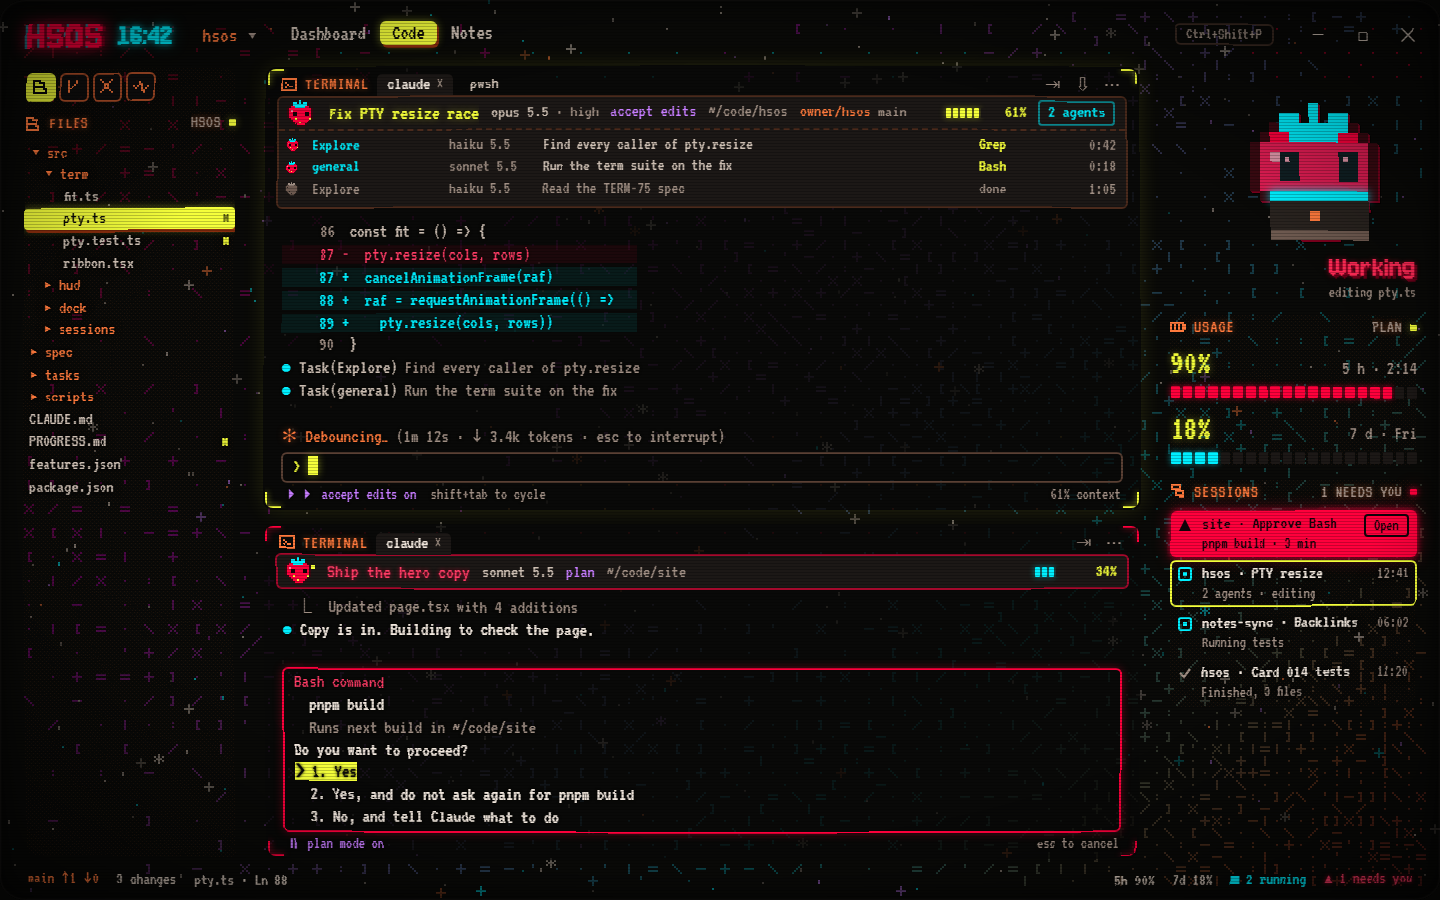
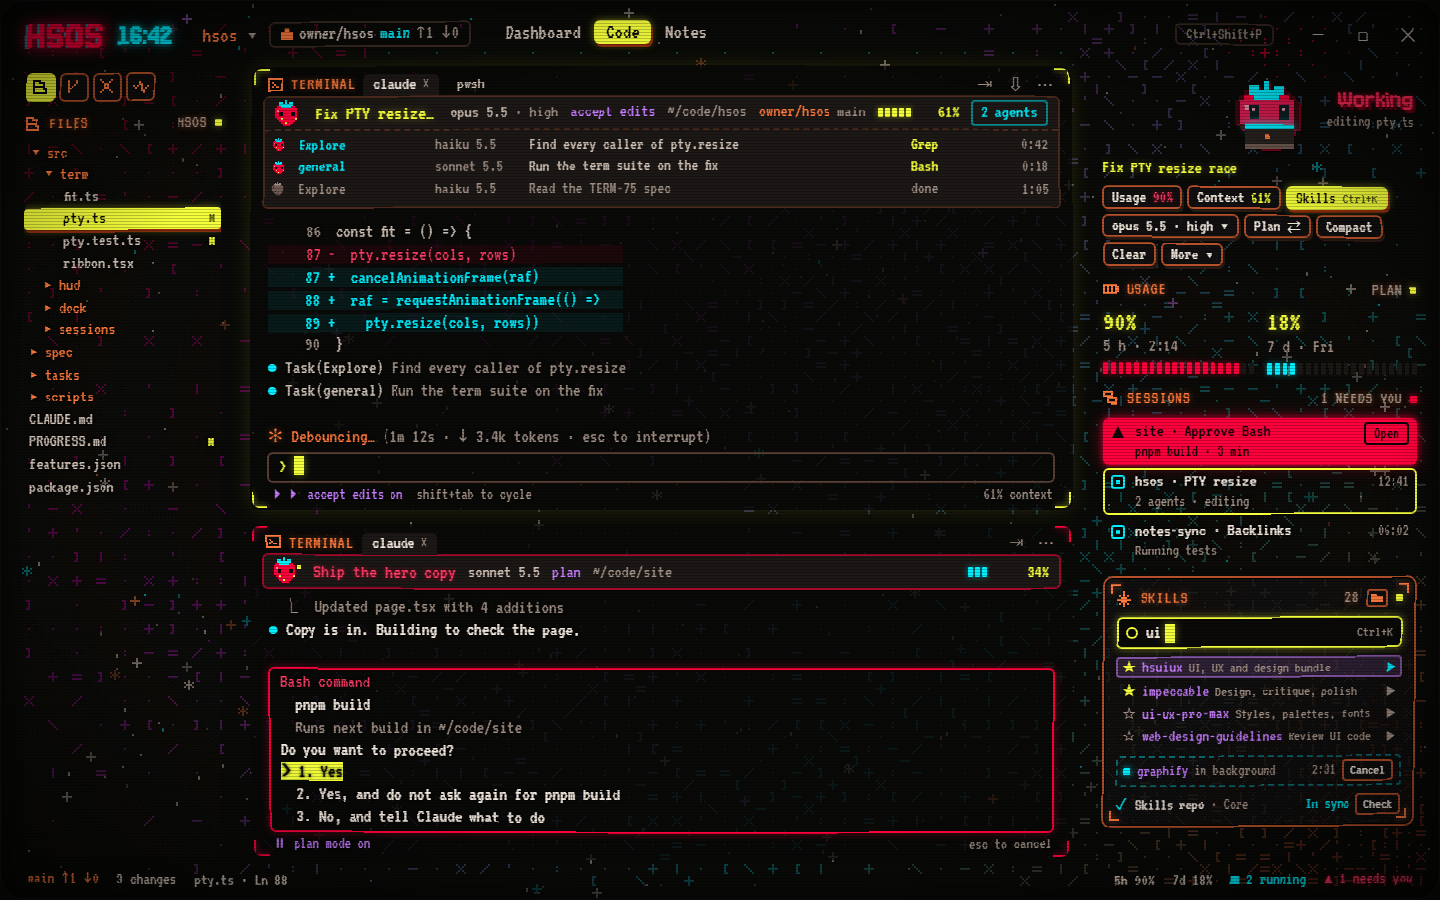
design(code): shrink mascot, add skills deck and repo to layout C
Owner chose layout C. The HUD column gains the quick bar, the skills
search deck with a background run, and the skills repo row; the title
bar shows the project's repo, branch and ahead/behind.

diff --git a/design-round/code/phosphor-code.html b/design-round/code/phosphor-code.html
@@ -51,6 +51,9 @@ button { font: inherit; color: inherit; background: none; border: 0; cursor: poi
 .clock { font-family: var(--font-display); font-size: 34px; line-height: 1; color: var(--cyan); text-shadow: var(--g-cyan); font-variant-numeric: tabular-nums; margin-left: -8px; }
 .clock .colon { animation: colon 1s steps(1) infinite; } @keyframes colon { 50% { opacity: .25; } }
 .proj { font-size: 22px; color: var(--terra); margin-left: 8px; } .proj span { color: var(--muted); }
+.repo-btn { display: flex; align-items: center; gap: 6px; font-size: 19px; color: var(--text-2); padding: 0 10px; border: 2px solid var(--line); border-radius: var(--radius-c); margin-left: -10px; }
+.repo-btn .br { color: var(--cyan); } .repo-btn .ab { color: var(--muted); }
+.repo-btn .gh { width: 12px; height: 12px; background: var(--terra); clip-path: polygon(0 30%, 30% 30%, 30% 0, 70% 0, 70% 30%, 100% 30%, 100% 100%, 0 100%); }
 .pages { display: flex; gap: 2px; }
 .pages button { padding: 0 12px; font-size: 21px; color: var(--text-2); border-radius: var(--radius-c); }
 .pages button[aria-current] { background: var(--accent); color: var(--accent-text); box-shadow: 2px 3px 0 var(--terra-deep), var(--g-yel); }
@@ -211,6 +214,45 @@ button { font: inherit; color: inherit; background: none; border: 0; cursor: poi
 [data-layout="c"] .hud .w .cn, [data-layout="c"] .hud .w .strip { display: none; }
 [data-layout="c"] .hud .row:not(.need) { text-shadow: 0 0 4px #000, 0 0 8px #000; }
 [data-layout="c"] .hud .ctxw { display: none; }
+.cx { display: none; }
+[data-layout="c"] .cx { display: flex; }
+[data-layout="c"] .work { grid-template-columns: 200px 1fr 318px; }
+[data-layout="c"] .hud { gap: 10px; }
+[data-layout="c"] .hud .mascot { flex-direction: row; align-items: center; justify-content: flex-end; gap: 8px; margin: -8px 0 -6px; }
+[data-layout="c"] .hud .mascot .word { font-size: 28px; }
+[data-layout="c"] .hud .ses .row:nth-child(n+4) { display: none; }
+[data-layout="c"] .hud .usew .usage { grid-template-columns: 1fr 1fr; gap: 14px; }
+[data-layout="c"] .hud .usew .lab { flex-direction: column; align-items: flex-start; gap: 0; margin-bottom: 4px; }
+[data-layout="c"] .hud .usew .num { font-size: 28px; }
+.quick { flex-direction: column; gap: 6px; }
+.quick .qt { color: var(--yellow); text-shadow: var(--g-yel); font-size: 18px; white-space: nowrap; overflow: hidden; text-overflow: ellipsis; }
+.quick .qb { display: flex; flex-wrap: wrap; gap: 5px; }
+.quick button { padding: 0 8px; font-size: 17px; border: 2px solid var(--frame); border-radius: var(--radius-c); background: rgba(18,16,16,.88); box-shadow: 2px 3px 0 #2A1A14; white-space: nowrap; }
+.quick .chip b { font-weight: 400; color: var(--yellow); } .quick .chip.danger b { color: #FF3D66; text-shadow: 0 0 4px rgba(255,0,60,.6); }
+.quick .chip kbd, .search kbd { font-family: inherit; color: var(--muted); font-size: 15px; }
+.quick .chip.skills { background: var(--accent); color: var(--accent-text); border-color: var(--accent); box-shadow: 2px 3px 0 var(--terra-deep), var(--g-yel); }
+.quick .chip.skills kbd { color: #4E5212; }
+.skills { flex-direction: column; }
+[data-layout="c"] .hud .skills.w { background: rgba(18,16,16,.72); border: 2px solid var(--frame); padding: 10px 12px; box-shadow: inset 0 0 0 1px #000; }
+[data-layout="c"] .hud .skills.w .cn { display: block; }
+.skills .fold { width: 22px; height: 18px; align-self: center; border: 2px solid var(--frame); border-radius: 3px; position: relative; }
+.skills .fold::before { content: ""; position: absolute; left: 3px; right: 3px; top: 3px; bottom: 3px; background: var(--terra); clip-path: polygon(0 0, 45% 0, 55% 25%, 100% 25%, 100% 100%, 0 100%); }
+.search { display: flex; align-items: center; gap: 4px; height: 32px; padding: 0 8px; border: 2px solid var(--yellow); border-radius: var(--radius-c); background: #0B0A09; box-shadow: var(--g-yel); }
+.search .mag { width: 12px; height: 12px; border: 2px solid var(--yellow); border-radius: 50%; margin-right: 4px; position: relative; }
+.search .typed { color: var(--text); }
+.search kbd { margin-left: auto; }
+.sk { list-style: none; display: grid; gap: 1px; }
+.sk li { display: grid; grid-template-columns: 14px auto 1fr 14px; gap: 6px; align-items: baseline; padding: 1px 6px; border-radius: 4px; font-size: 17px; white-space: nowrap; }
+.sk li > * { overflow: hidden; text-overflow: ellipsis; }
+.sk .nm { color: var(--lav); } .sk .ds { color: var(--muted); font-size: 15px; } .sk .star { color: var(--muted); } .sk .star.on { color: var(--yellow); }
+.sk .run { color: var(--muted); font-size: 12px; text-align: right; }
+.sk li.hit { background: rgba(199,125,255,.16); outline: 2px solid rgba(199,125,255,.55); outline-offset: -2px; }
+.sk li.hit .run { color: var(--cyan); }
+.runs { display: grid; grid-template-columns: 8px auto 1fr auto auto; gap: 6px; align-items: center; font-size: 16px; padding: 3px 6px; border: 2px dashed rgba(0,240,255,.4); border-radius: 4px; white-space: nowrap; }
+.runs .nm { color: var(--lav); } .runs .t { color: var(--muted); }
+.runs button, .repo-row button { padding: 0 6px; font-size: 15px; border: 2px solid var(--frame); border-radius: 4px; }
+.repo-row { display: grid; grid-template-columns: 14px 1fr auto auto; gap: 6px; align-items: center; font-size: 16px; }
+.repo-row .ok { color: var(--cyan); }
 
 /* buttons: lift and tilt toward the pointer */
 .btn3d { --rx: 0deg; --ry: 0deg; transform: perspective(320px) rotateX(var(--rx)) rotateY(var(--ry)); transition: transform 140ms cubic-bezier(.2,0,0,1), filter 140ms ease-out; }
@@ -253,6 +295,7 @@ button { font: inherit; color: inherit; background: none; border: 0; cursor: poi
       <div class="brand" data-text="HSOS">HSOS</div>
       <div class="clock"><span class="hh">16</span><span class="colon">:</span><span class="mm">42</span></div>
       <div class="proj">hsos <span>▾</span></div>
+      <button class="repo-btn" title="Open owner/hsos on GitHub"><span class="gh"></span>owner/hsos <span class="br">main</span> <span class="ab">↑1 ↓0</span></button>
       <nav class="pages" aria-label="Pages"><button>Dashboard</button><button aria-current="page">Code</button><button>Notes</button></nav>
       <div class="grow"></div>
       <div class="hint">Ctrl+Shift+P</div>
@@ -340,10 +383,17 @@ button { font: inherit; color: inherit; background: none; border: 0; cursor: poi
       <aside class="hud" aria-label="HUD">
         <section class="mascot">
           <canvas id="berry" aria-label="Strawberry mascot"></canvas>
-          <div class="word">Working</div>
-          <div class="doing">editing pty.ts</div>
+          <div class="say"><div class="word">Working</div>
+          <div class="doing">editing pty.ts</div></div>
         </section>
-        <section class="w" data-icon="battery" data-led="yel">
+        <section class="quick cx" aria-label="Quick bar">
+          <div class="qt">Fix PTY resize race</div>
+          <div class="qb">
+            <button class="chip danger">Usage <b>90%</b></button><button class="chip warn">Context <b>61%</b></button><button class="chip skills">Skills <kbd>Ctrl+K</kbd></button>
+            <button>opus 5.5 · high ▾</button><button>Plan ⇄</button><button>Compact</button><button>Clear</button><button>More ▾</button>
+          </div>
+        </section>
+        <section class="w usew" data-icon="battery" data-led="yel">
           <h2>Usage <span class="aside">plan</span></h2>
           <div class="usage">
             <div><div class="lab"><span class="num">90%</span><span class="muted">5 h · 2:14</span></div><div class="cells" data-v="90"></div></div>
@@ -358,6 +408,18 @@ button { font: inherit; color: inherit; background: none; border: 0; cursor: poi
             <div class="row"><span class="state" data-s="run"></span><div><div class="title">notes-sync · Backlinks</div><div class="sub">Running tests</div></div><span class="when">06:02</span></div>
             <div class="row"><span class="state" data-s="done"></span><div><div class="title">hsos · Card 014 tests</div><div class="sub">Finished, 3 files</div></div><span class="when">11:20</span></div>
           </div>
+        </section>
+        <section class="w skills cx" data-icon="spark" data-led="yel">
+          <h2>Skills <span class="aside">28</span><button class="fold" title="Open skills folder" aria-label="Open skills folder"></button></h2>
+          <div class="search"><span class="mag"></span><span class="typed">ui</span><span class="caret"></span><kbd>Ctrl+K</kbd></div>
+          <ul class="sk">
+            <li class="hit"><span class="star on">★</span><span class="nm">hsuiux</span><span class="ds">UI, UX and design bundle</span><span class="run" title="Run in background">▶</span></li>
+            <li><span class="star on">★</span><span class="nm">impeccable</span><span class="ds">Design, critique, polish</span><span class="run">▶</span></li>
+            <li><span class="star">☆</span><span class="nm">ui-ux-pro-max</span><span class="ds">Styles, palettes, fonts</span><span class="run">▶</span></li>
+            <li><span class="star">☆</span><span class="nm">web-design-guidelines</span><span class="ds">Review UI code</span><span class="run">▶</span></li>
+          </ul>
+          <div class="runs"><span class="led cyan"></span><span class="nm">graphify</span><span class="muted">in background</span><span class="t">2:31</span><button>Cancel</button></div>
+          <div class="repo-row"><span class="ok">✓</span><span>Skills repo <span class="muted">· Core</span></span><span class="cyan">In sync</span><button>Check</button></div>
         </section>
       </aside>
     </main>
@@ -461,6 +523,7 @@ const ICONS = {
   graph:  ["#.....#.", ".#...#..", "..###...", "..#.#...", "..###...", ".#...#..", "#.....#.", "........"],
   pulse:  ["........", "...#....", "...##...", "#.#.#..#", ".#..#.#.", "....##..", ".....#..", "........"],
   box:    ["..####..", ".#....#.", "########", "#..##..#", "#......#", "#......#", "########", "........"],
+  spark:  ["...#....", "...#....", ".#.#.#..", "..###...", "#######.", "..###...", ".#.#.#..", "...#...."],
   gear:   ["..#..#..", ".######.", "##....##", ".#.##.#.", ".#.##.#.", "##....##", ".######.", "..#..#.."],
 };
 const svg = (rows, c) => `<svg class="ico" viewBox="0 0 8 8" shape-rendering="crispEdges" aria-hidden="true">${rows.map((r, y) => [...r].map((ch, x) => ch === '#' ? `<rect x="${x}" y="${y}" width="1" height="1" fill="${c}"/>` : '').join('')).join('')}</svg>`;
@@ -480,7 +543,7 @@ document.querySelectorAll('[data-icon-inline]').forEach(s => s.outerHTML = svg(I
     h2.insertAdjacentHTML('afterend', '<div class="strip"></div>'); w.querySelector('.strip').style.backgroundImage = `url(${stURL})`;
   });
 })();
-document.querySelectorAll('.pages button, .hint, .winctl span, .rail button, .side .tabs button, .tree li, .rows .row, .row .open, .tabbar .tab, .tabbar .tools span, .ribbon .agents').forEach(b => {
+document.querySelectorAll('.repo-btn, .quick button, .sk li, .runs button, .repo-row button, .skills .fold, .pages button, .hint, .winctl span, .rail button, .side .tabs button, .tree li, .rows .row, .row .open, .tabbar .tab, .tabbar .tools span, .ribbon .agents').forEach(b => {
   b.classList.add('btn3d');
   b.addEventListener('pointermove', e => {
     const r = b.getBoundingClientRect(), x = (e.clientX - r.left) / r.width - .5, y = (e.clientY - r.top) / r.height - .5, wide = r.width > 160 ? .45 : 1;
@@ -512,8 +575,8 @@ const MINIS = [...document.querySelectorAll('canvas.mini')].map((cv, i) => ({ cv
 
 /* HUD mascot: turns its face to the pointer, blinks, holds a laptop while the session works */
 const berry = document.getElementById('berry'), bx = berry.getContext('2d');
-const PX = LAYOUT === 'c' ? 10 : LAYOUT === 'b' ? 8 : 8, OX = 18, OY = 26;
-berry.width = 16 * PX + OX * 2; berry.height = 15 * PX + OY + 12;
+const PX = LAYOUT === 'c' ? 5 : 8, OX = LAYOUT === 'c' ? 10 : 18, OY = LAYOUT === 'c' ? 16 : 26;
+berry.width = 16 * PX + OX * 2; berry.height = 15 * PX + OY + (LAYOUT === 'c' ? 6 : 12);
 const LAPTOP = ["cccccccccc", "gggggggggg", "ggggoggggg", "gggggggggg", "bbbbbbbbbb"], LAPC = { c:'#00F0FF', g:'#2A2420', o:'#FF7A3D', b:'#6E5A50' };
 const mouse = { x: -1e4, y: -1e4, last: performance.now() };
 addEventListener('pointermove', e => { mouse.x = e.clientX; mouse.y = e.clientY; mouse.last = performance.now(); });

diff --git a/design-round/code/compare.html b/design-round/code/compare.html
@@ -37,7 +37,7 @@
 
   <section>
     <h2>C. Open air</h2>
-    <p>Closest to the Dashboard. Files and the HUD lose their boxes and float over the dust, with the strawberry top right where it lives on the Dashboard. The terminals are stacked, full width, framed only by corner brackets, and more see-through, so the steam rising from each session's ribbon shows behind the text.</p>
+    <p>Closest to the Dashboard. Files and the HUD lose their boxes and float over the dust, with the strawberry top right where it lives on the Dashboard. The terminals are stacked, full width, framed only by corner brackets, and more see-through, so the steam rising from each session's ribbon shows behind the text. Round 2: the strawberry is half the size; the HUD now holds the quick bar (Usage, Context, Skills, model, Plan, Compact, Clear, More), the Skills deck with its search field, a background run, and the Skills repo row; the project's repo and branch sit in the title bar next to the project switcher.</p>
     <figure><a href="phosphor-code.html?layout=c"><img src="shots/code-c.png" alt="Layout C: floating Files and HUD, two stacked terminals"></a></figure>
   </section>
 </main>

diff --git a/design-round/design-rounds.md b/design-round/design-rounds.md
@@ -86,3 +86,12 @@ All three show the same moment: the left terminal is focused (yellow frame) with
 - B, stage: the focused terminal at about 860 px with the full ribbon; the second terminal beside it at the top; a compact HUD under it. Files folds into the rail.
 - C, open air: Files and the HUD float without boxes, the strawberry top right as on the Dashboard; terminals stacked full width, framed by corner brackets only, at 0.74 opacity.
 - Open points for the spec: the ribbon is drawn 32 px high so the 16 by 16 mascot sits at 2x (HUD-80 says 28 px and HUD-81 a 20 px mascot); a terminal under 0.8 opacity (layout C) needs `surface.text.minAlpha` set at or below it (UI-31); layout C has no activity rail, its side views move to a tab row above Files (layout.md, Areas).
+
+## Code page, round 2 (2026-11-18): layout C chosen
+
+Owner liked layout C best and asked for a smaller strawberry, more room for tools and details, and where the repo and the skill search are.
+
+- Strawberry at 5 px cells instead of 10, in a row with its word, top of the HUD column; the HUD column grows from 250 to 318 px and Files shrinks to 200.
+- HUD column, top to bottom: mascot, quick bar (HUD-60 to HUD-62: the target session's title; Usage, Context and Skills; model and effort, Plan, Compact, Clear, More), Usage, Sessions (three rows), Skills deck (HUD-30 to HUD-33: a search field, here with `ui` typed and the first hit lit, star toggles, a run-in-background action per row, one background run with Cancel) and the Skills repo row (HUD-40: "In sync", Check). The Skills deck keeps a box because it holds an input; the other HUD parts float.
+- Repo: a title bar button next to the project switcher shows `owner/repo`, the branch and ahead/behind, and opens `webUrl` (GIT-14). The ribbon still shows the session's repo and branch (HUD-81).
+- Open points for the spec: the repo button in the title bar is new (layout.md says the title bar holds the project switcher and the branch); `Ctrl+K` as the key for `hud.searchSkills` is new and clashes with the `Ctrl+K Ctrl+T` chord, so the spec author picks a free key.
